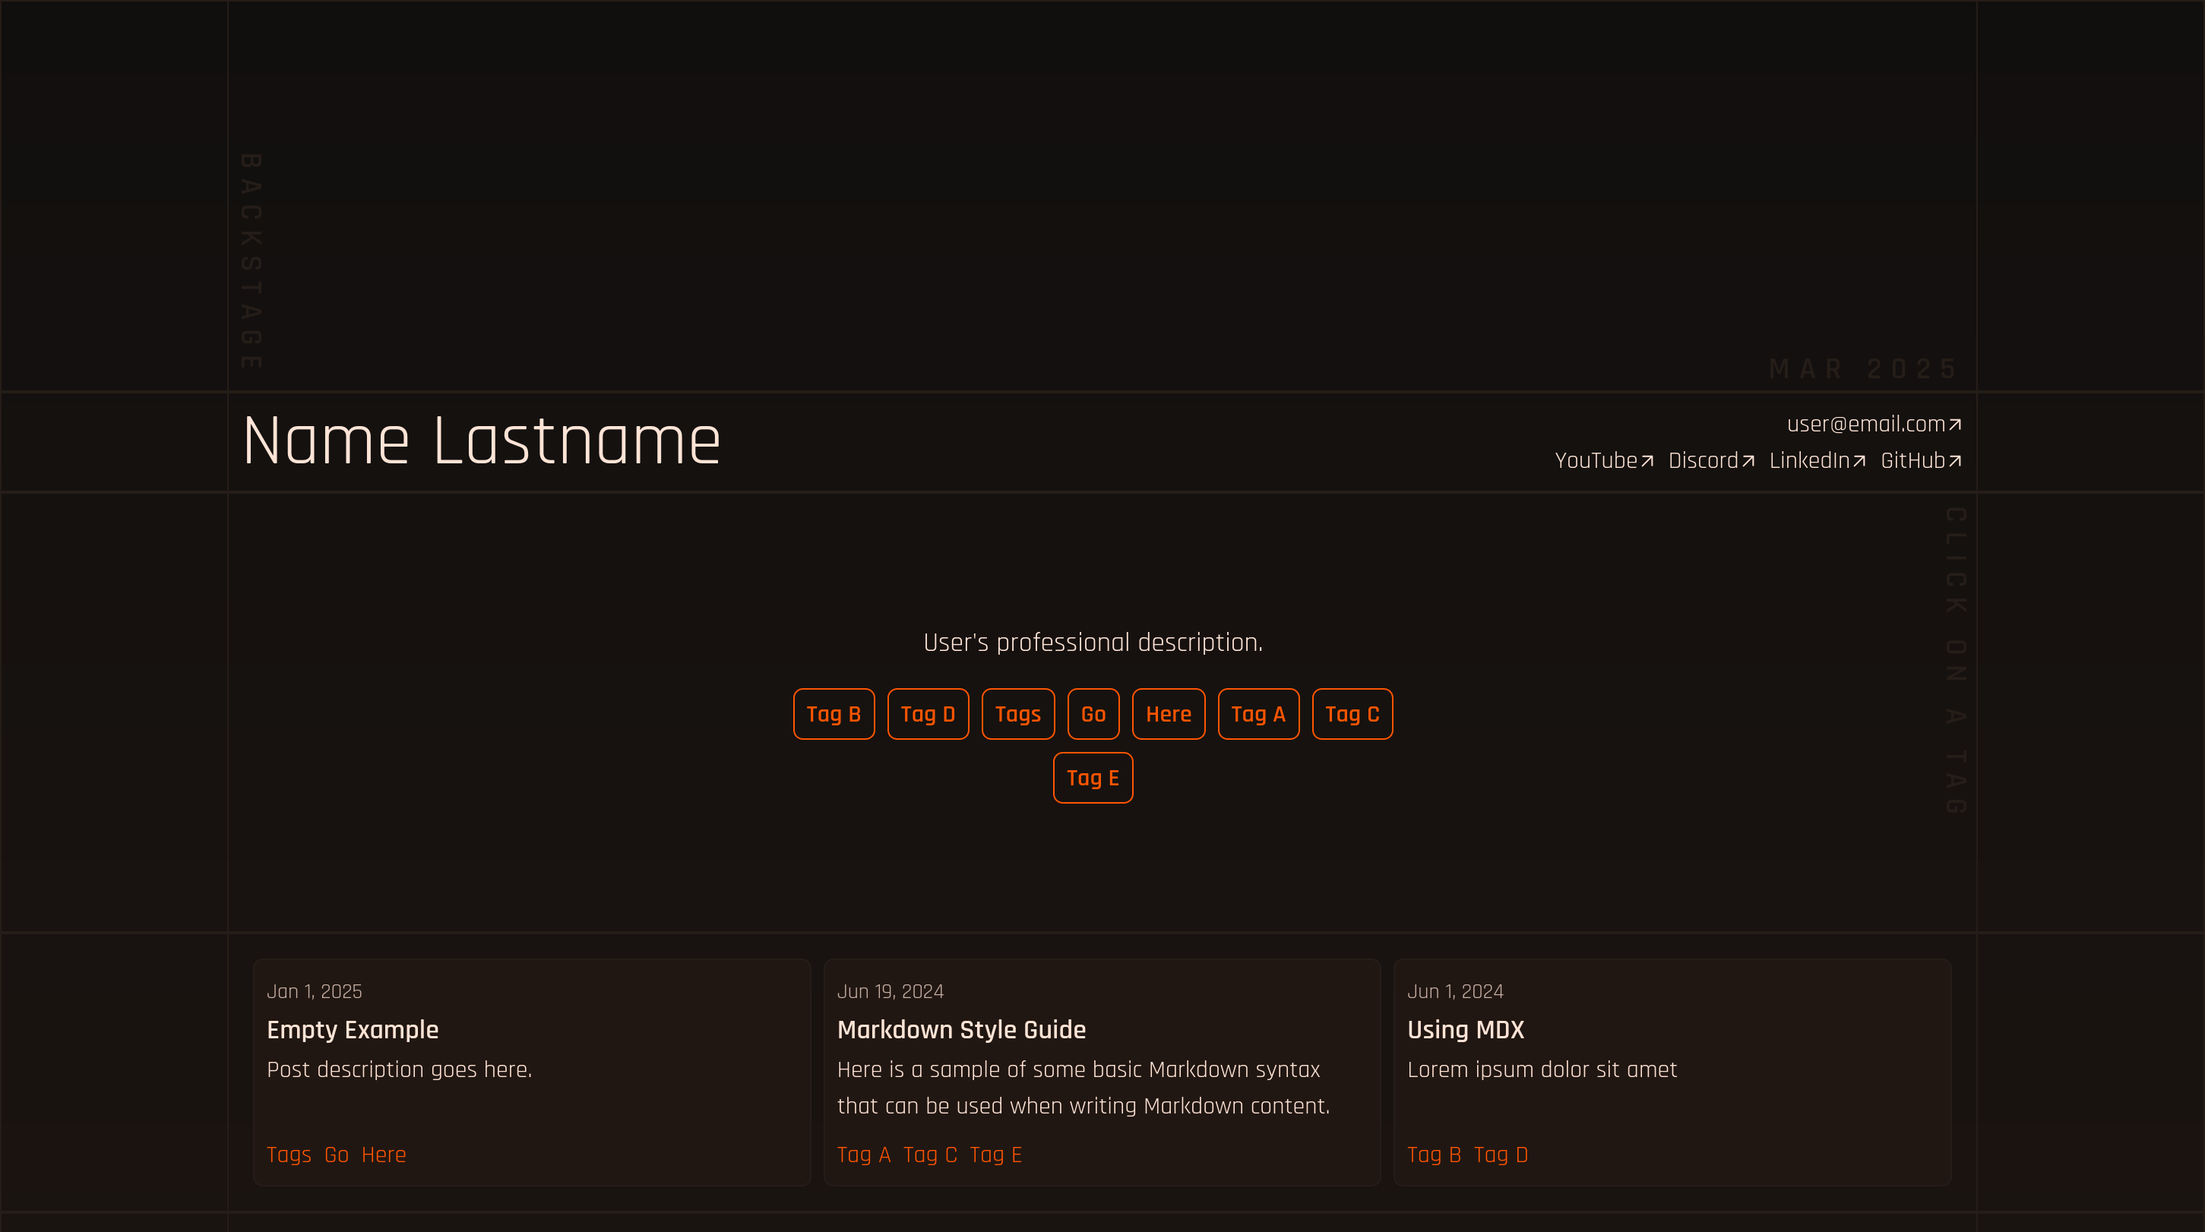
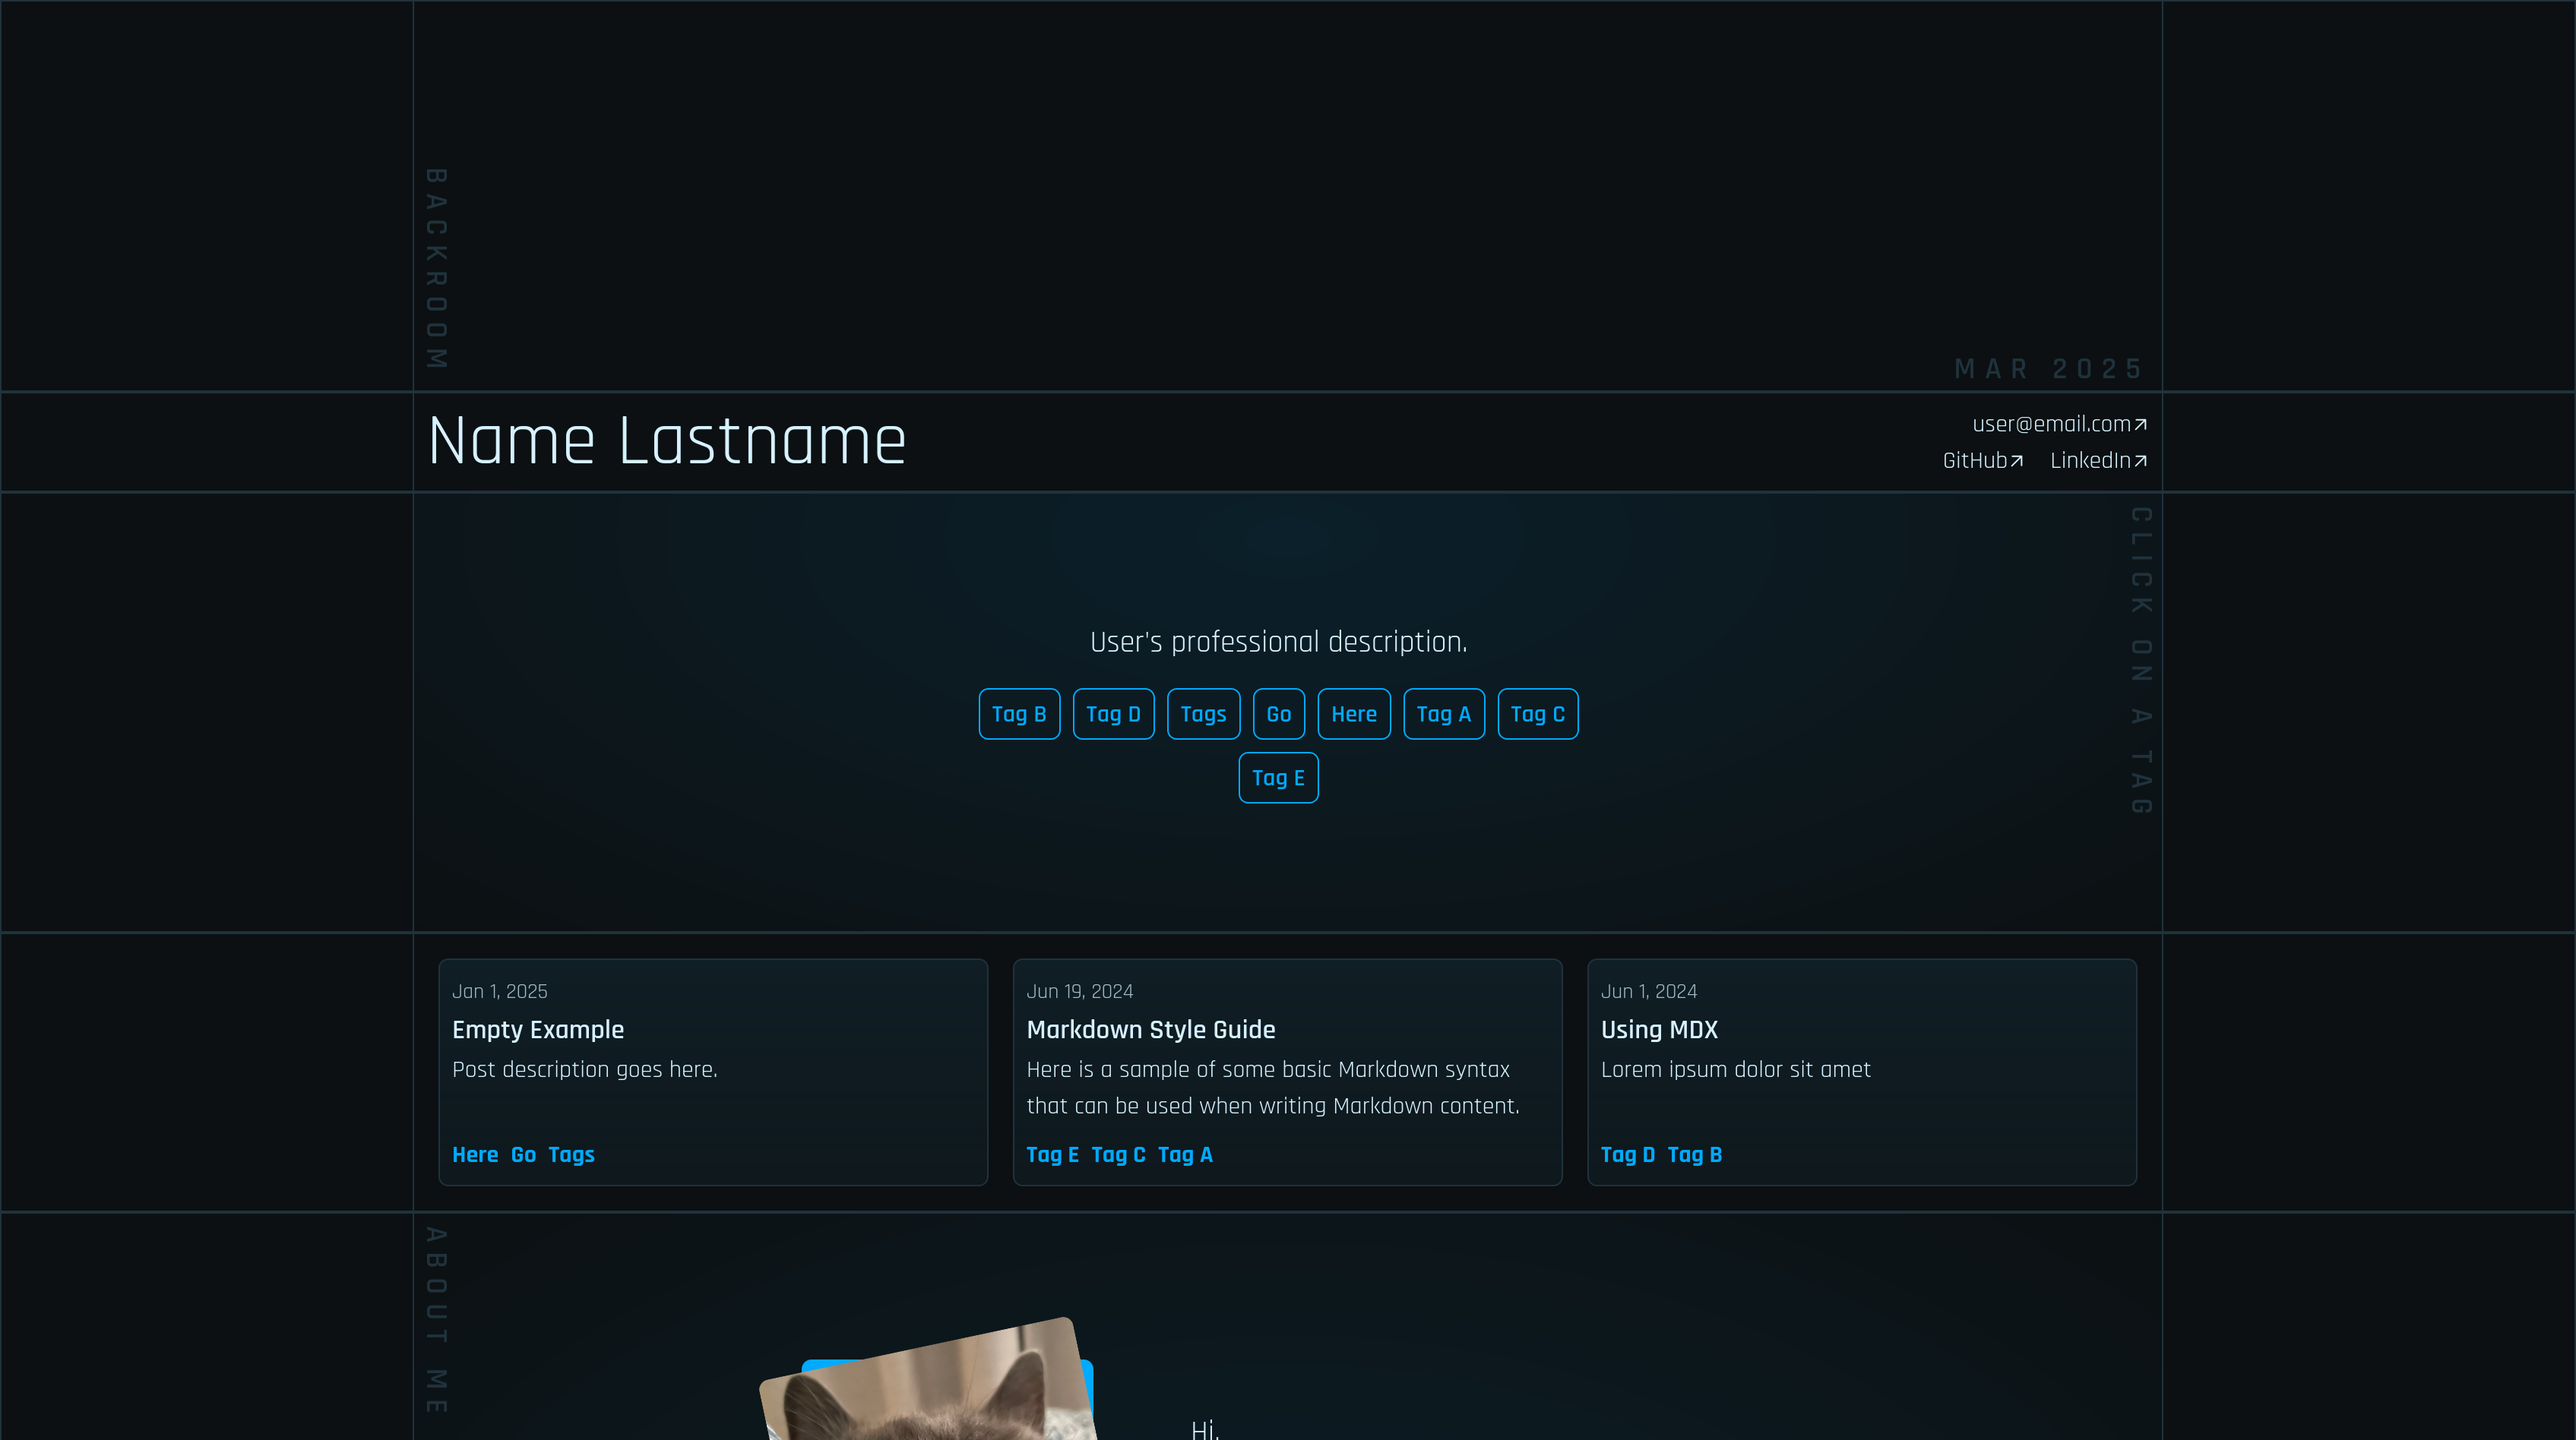
polish

diff --git a/src/components/reactive/Tags.svelte b/src/components/reactive/Tags.svelte
@@ -19,7 +19,7 @@
 
 {#snippet tag(title: string)}
     {#if isMounted}
-        <button onclick={() => toggleFilter(title)} in:fade={{duration: 400 + Math.random() * 1000, delay: Math.random() * 1200}} class={cn($filters.includes(title) ? "opacity-65" : "", "inline-block w-fit h-fit px-2 py-1 bg-transparent border rounded-interactive border-accent text-accent font-semibold hover:bg-accent hover:text-primary hover:cursor-pointer duration-200")}>
+        <button onclick={() => toggleFilter(title)} in:fade={{duration: 400 + Math.random() * 600, delay: Math.random() * 1000}} class={cn($filters.includes(title) ? "opacity-65" : "", "inline-block w-fit h-fit px-2 py-1 bg-transparent border rounded-interactive border-accent text-accent font-semibold hover:bg-accent hover:text-primary hover:cursor-pointer duration-200")}>
             {title}
         </button>
     {/if}

diff --git a/src/pages/rss.xml.js b/src/pages/rss.xml.js
@@ -1,12 +1,12 @@
 import rss from "@astrojs/rss";
 import { getCollection } from "astro:content";
-import { SITE_TITLE, SITE_DESCRIPTION } from "../data/site";
+import { siteTitle, SiteDescription } from "../data/site.json";
 
 export async function GET(context) {
   const posts = await getCollection("posts");
   return rss({
-    title: SITE_TITLE,
-    description: SITE_DESCRIPTION,
+    title: siteTitle,
+    description: SiteDescription,
     site: context.site,
     items: posts.map((post) => ({
       ...post.data,

diff --git a/src/components/reactive/Posts.svelte b/src/components/reactive/Posts.svelte
@@ -55,7 +55,7 @@
         </div>
         <div class="flex flex-row gap-2 overflow-hidden text-accent">
             {#each getSortedTags(post) as tag}
-                <span class={cn(($filters.length > 0 && !$filters.includes(tag)) && "opacity-60")}>{tag}</span>
+                <span class={($filters.length > 0 && !$filters.includes(tag)) ? "opacity-60" : "font-black"}>{tag}</span>
             {/each}
         </div>
     </a>

diff --git a/src/posts/markdown-style-guide.md b/src/posts/markdown-style-guide.md
@@ -1,5 +1,6 @@
 ---
 title: "Markdown Style Guide"
+published: true
 description: "Here is a sample of some basic Markdown syntax that can be used when writing Markdown content."
 tags: ["Tag A", "Tag C", "Tag E"]
 date: "Jun 19 2024"
